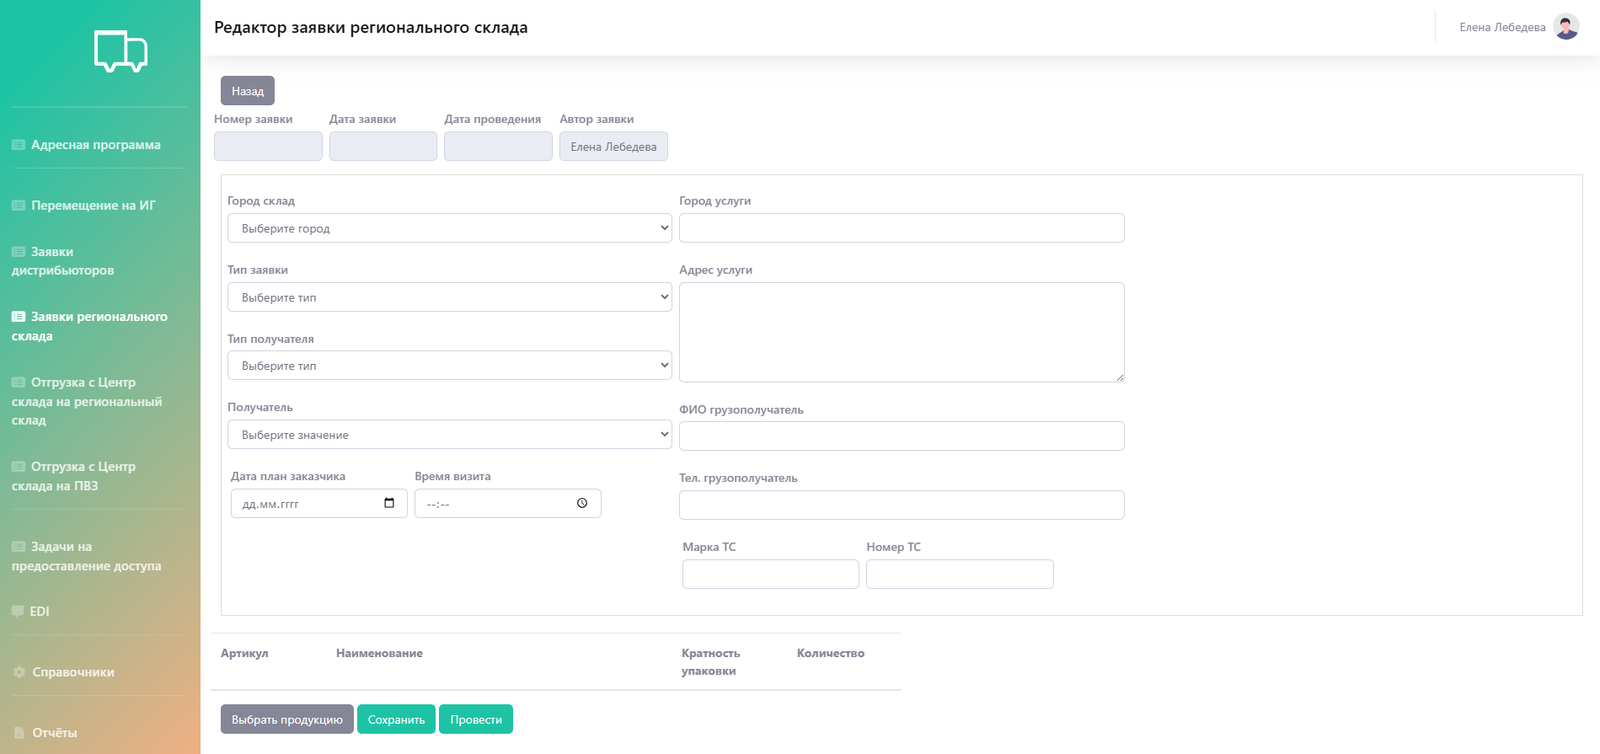
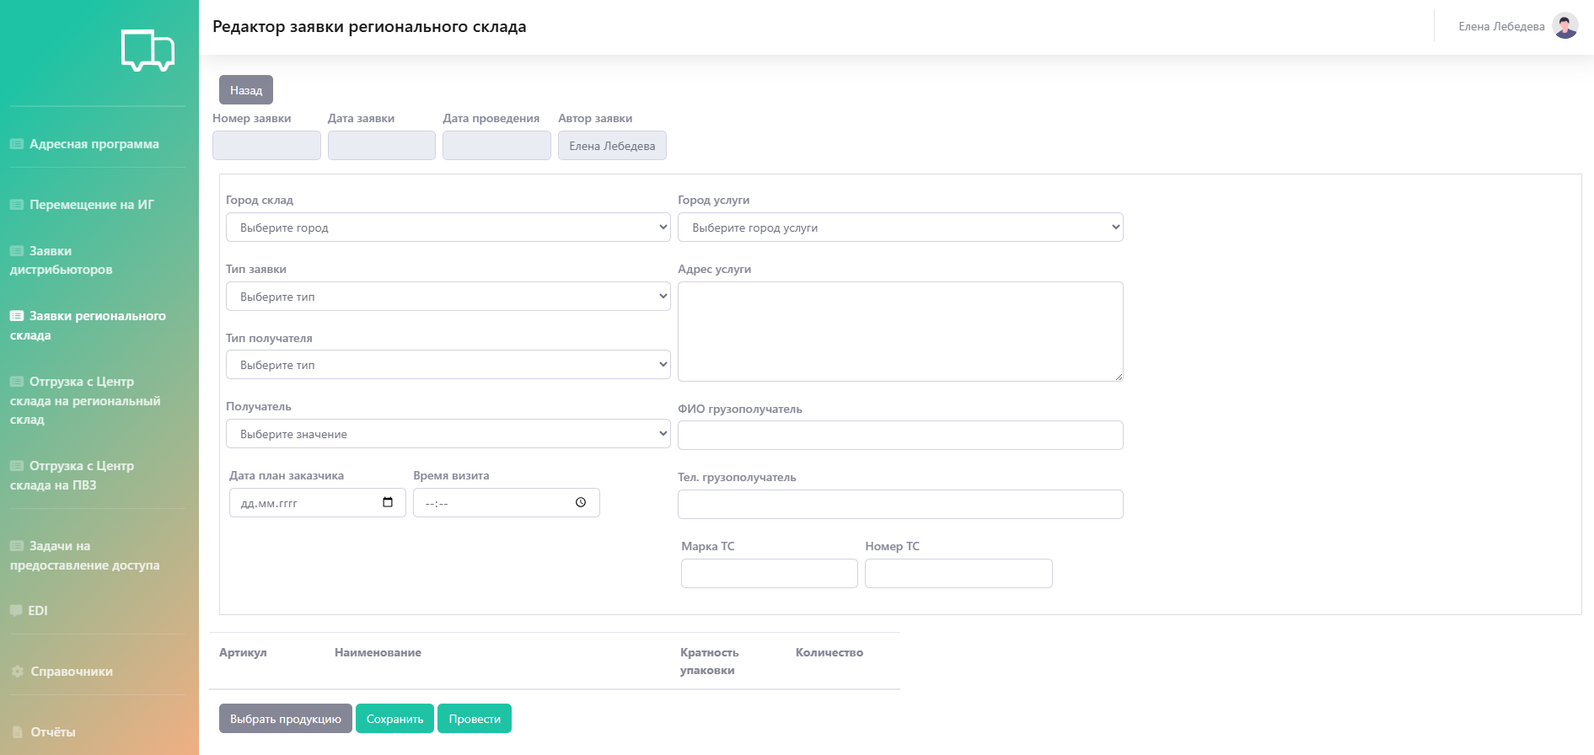
fix bags

diff --git a/docs/ru/main_page.md b/docs/ru/main_page.md
@@ -6,7 +6,7 @@
 
 ## Адресная программа (АП)
 
-**Адресная программа** — заказ, превращённый в детальный маршрутный лист. Здесь указаны данные о том что, куда, зачем, в каком объеме необходимо привезти и что со всем этим делать.     
+**Адресная программа** — заказ, превращённый в детальный маршрутный лист. Здесь указаны данные о том что, куда, зачем, в каком объёме необходимо привезти и что со всем этим делать.     
 
 ### Начало работы
 1. Клиент получает excel-шаблон и заполняет его в соответствии с задачами.
@@ -18,7 +18,7 @@
 
 {% note warning %}
 
-После загрузки адресной программы в систему клиент может только изменить тип заявки движения, канал и наименование проекта, все остальные изменения возможны только по запросу через нас.
+После загрузки адресной программы для редактирования доступны только тип заявки движения, канал и наименование проекта, все остальные изменения возможны путём обращения по электронной почте.
 
 {% endnote %}
 
@@ -32,12 +32,12 @@
 
 ### Расчет тарифа, корректировка и смета
 
-**Расчет тарифа** происходит на нашей стороне: менеджер просчитывает стоимость услуг относительно утвержденных тарифов и вносит их в систему. 
+**Расчет тарифа** происходит на нашей стороне: менеджер рассчитывает стоимость услуг относительно утвержденных тарифов и вносит в систему. 
 Чтобы увидеть расчет необходимо открыть конкретную АП и пролистать до табличной части.            
 
 ![_screen_start_04](_images/md_ap_tarif.png){.center width=1200}
 
-Если расчет устраивает, то по команде «Подтвердить дата план АП» клиент подтверждает согласие со стоимостью по адресной программе и одновременно с этим указывает плановую дату по адресной программе. После этого запускается процесс исполнения.
+Если расчет устраивает, то по команде «Подтвердить дата план АП» клиент соглашается с полученной стоимостью и одновременно с этим указывает плановую дату по адресной программе. После этого запускается процесс исполнения.
 
 В случае, когда требуется **корректировка АП или загрузка сметы**, клиент загружает файл в систему по команде «Загрузка сметы и корректировки» или отправляет email.  
 
@@ -46,7 +46,7 @@
 ![_screen_start_05](_images/md_ap_fix.png){.center width=1200}
 
 ### Фотоотчёт
-Если заявка выполнена, все в той же табличной части адресной программы обновляется статус, фактические даты исполнения и фотоотчёт. 
+Если заявка выполнена, в той же табличной части адресной программы обновляются статус, фактические даты исполнения и фотоотчёт. 
 Для просмотра фото в таблице необходимо кликнуть по столбцу «Фотоотчёт» в строке нужной заявки. На фотографиях указываются дата и место для удобства отслеживания.
 
 ![_screen_start_06](_images/md_ap_photoreport.png){.center width=500}
@@ -59,7 +59,7 @@
 ![_screen_start_07](_images/md_install_group.png){.center width=1200}
 
 ## Управление складской дистрибуцией
-Для отслеживания перемещений и контроля остатков на складах **есть 5 подсистем**.   
+Для отслеживания перемещений и контроля остатков на складах **существует 5 подсистем**.   
 
 ### 1. Заявки дистрибьюторов
 Дистрибьюторы — юридические лица, которым доставляется товар на их склады. Они формируют заявки и передают клиенту, который составляет по ним адресную программу.
@@ -69,17 +69,33 @@
 ![_screen_start_08](_images/md_distrib.png){.center width=1200}
 
 ### 2. Заявки регионального склада
-Клиент может отгрузить товары на региональные склады (через адресную программу) и далее оставлять заявки по мере необходимости того или иного оборудования или товара. 
+Отгрузка товаров на региональные склады происходит через адресную программу. Далее составляются заявки по мере необходимости товара или оборудования. 
 
-Заявка создается из подсистемы «Заявки регионального склада» → «Новая заявка» — таким образом будет открыт редактор заявки регионального склада.
+Заявка создается из подсистемы «Заявки регионального склада» → «Новая заявка» — таким образом открывается редактор заявки регионального склада.
 
 ![_screen_start_09](_images/md_new_request.png){.center width=1200}
 
-Можно забрать товар самовывозом, можно оставить заявку на доставку, на доставку и монтаж, на демонтаж и возврат. 
+Поля «Город склад» и «Город услуги» связаны: выбор города, в котором находится склад, определяет список городов для доставки.   
 
-Тип получателя также может быть различным: дистрибьютор, агентство, Монделиз офис, торговая точка (ТТ).    
+Услуга выбирается в поле «тип заявки»: можно забрать товар самовывозом, можно оставить заявку на доставку, на доставку и монтаж, на демонтаж и возврат. 
 
-Выбор продукции осуществляется на основании актуальных складских остатков. Система позволяет выбрать только номенклатуру, присутствующую на складе в необходимом количестве, исключая возможность заказа отсутствующих или недостающих товаров.
+Поле «тип получателя» может быть: дистрибьютор, агентство, Монделиз офис, торговая точка (ТТ). Выбранный тип ограничивает список значений для поля «получатель». Например, для типа «дистрибьютор» сейчас доступно 13 получателей, а для типа «агентство» — 3. 
+
+Адрес получателя указывается вручную в поле «Адрес услуги» в произвольной форме. После проведения заявки адрес услуги переносится в СУУ, где операторы вручную проверяют указанный адрес для последующего корректного расчёта стоимости доставки. **Для самовывоза адрес услуги не проверяется.** 
+
+Планируемая дата и время визита необходимы только для самовывоза — это позволяет сотрудникам склада подготовить товар вовремя. **Для остальных типов заявки указанная дата и время визита не учитываются.**  
+
+Кроме того, **только для самовывоза** есть возможность отметить срочность заявки. Ориентировочное время доставки 1-2 рабочих дня от даты заявки, при проставленном флажке «срочная заявка» ориентировочное время — 3 часа.    
+
+Дополнительно можно указать данные о грузополучателе: ФИО, телефон, марка и номер транспортного средства (ТС). 
+
+Выбор продукции осуществляется на основании актуальных складских остатков. Система позволяет выбрать только ту номенклатуру, которая есть на складе в нужном количестве, исключая возможность заказа отсутствующих или недостающих товаров.
+
+После внесения всех данных заявку можно сохранить и провести: 
+- при сохранении — информация по заявке вносится в систему, а саму заявку можно просматривать и редактировать, однако работы по заявке начнутся только после ее проведения;
+- после проведения — заявка берётся в работу и её нельзя изменить, но можно добавить информацию о ФИО и телефоне грузополучателя, а также номере и марке транспортного средства. 
+
+**Отменить или удалить заявку можно только, отправив письмо на почту.** 
 
 ### 3. Отгрузка с центрального склада на региональный склад
 В данной подсистеме можно оставить заявку для пополнения запасов в регионах.
@@ -87,26 +103,42 @@
 
 ![_screen_start_10](_images/md_request_center.png){.center width=1200}
 
-При создании заявки необходимо указать номер заказа, в рамках которого будет осуществляться отгрузка с центрального склада, дата создания, автор и статус заявки проставляются автоматически.  
+При создании заявки необходимо указать номер заказа, в рамках которого будет осуществляться отгрузка. Дата создания, автор и статус заявки проставляются автоматически. 
+
+После внесения номера заказа необходимо нажать команду «Сохранить» и повторно открыть только что сохраненную заявку. Появится команда «Загрузить», с помощью которой загружается Excel-файл с информацией по отгрузкам с центрального склада. 
+
+На основании информации из файла происходит расчет стоимости доставки с учетом габаритов и тарифов. Также можно прикрепить корректировку к уже рассчитанной заявке по команде «Загрузить смету и корректировку». 
+
+Когда расчет завершен, менеджер, ответственный за поручение, получает сообщение на почту. По команде «подтвердить калькуляцию» расчет согласовывается, а заявка принимается в работу складом.
+
+Отменить или удалить заявку можно только, отправив письмо на почту.  
 
 ### 4. Отгрузка с центрального склада на ПВЗ
-ПВЗ — это «мини-версия» склада. По функциям и взаимодействию аналогичен складу однако, есть 2 ключевых отличия:
-- можно заказывать оборудование небольшого объема (до 0,8 м³);
-- заказчик этого оборудования должен забрать его в течение недели. 
+ПВЗ — это «мини-версия» склада. По функциям и взаимодействию аналогичен складу, однако, есть 2 ключевых отличия:
+- можно заказывать оборудование небольшого объема (объем одного заказа вне зависимости от количества оборудования не должен превышать 0,8 м³);
+- заказчик оборудования должен забрать его в течение 7 календарных дней с момента поступления на ПВЗ. 
 
-Заявка оставляется по команде «Новая заявка» и добавление продукции происходит в соответствии со складскими остатками. Кроме того, для товаров доступен просмотр товаров в 3D:  
+Добавление заявки происходит по команде «Новая заявка»:
+- город выбирается только из тех, где есть ПВЗ, адрес ПВЗ проставляется автоматически в соответствии с выбранным городом;
+- плановая дата, к которой необходимо доставить оборудование, а также ФИО и телефон грузополучателя можно добавить позже, если на момент создания заявки информации еще нет;
+- товар добавляется в соответствии со складскими остатками через команды «Выбрать товар» или «Выбрать продукцию» (разницы между командами нет). Кроме того, для каждой номенклатуры доступен просмотр товаров в 3D.  
 
-![_screen_start_11](_images/md_3d_request.png){.center width=1200}
+![_screen_start_20](_images/md_request_PVZ.png){.center width=1200}
+
+После внесения всех данных заявку можно сохранить и провести: 
+- при сохранении — информация по заявке вносится в систему, а саму заявку можно просматривать и редактировать, однако работы по заявке начнутся только после ее проведения;
+- при проведении — заявка берется в работу и ее нельзя изменить, но можно добавить информацию о ФИО и телефоне грузополучателя.  
+
+Отменить или удалить заявку можно только, отправив письмо на почту. 
 
 ## 5. EDI
-**EDI** — система электронного документооборота. 
-Данная подсистема интегрирована с виртуальными складами для обмена информацией с системой клиента (SAP Mondelēz).   
-
-Каждое действие с товаром (поступление, отгрузка в транзит, прибытие, установка и etc.) фиксируется под уникальными номерами движений (101, 301, 305, 84, 85 и др.), что делает точнее электронный документооборот: видна вся цепочка по номеру заказа.  
+**EDI** — система электронного документооборота, которая является каналом синхронизации систем SAP Mondelez и СУУ. При проведении того или иного складского документа в EDI фиксируется соответствующее сообщение о движении: каждое действие с товаром (поступление, отгрузка в транзит, прибытие, установка etc.) фиксируется под уникальными номерами движений (101, 301, 305, 84, 85 и др.), что делает точнее электронный документооборот: видна вся цепочка по номеру заказа.  
 
 ![_screen_start_12](_images/md_edi.png){.center width=1200}
 
-Кроме того, настроен автоматический обмен: каждый вечер система отправляет актуальные остатки по складам.
+Кроме того, настроен автоматический обмен: каждый вечер система отправляет актуальные остатки по складам, таким образом оператор работает с синхронизированными остатками SAP Mondelez. 
+
+Синхронизация с SAP Mondelez происходит только по общему остатку региональных складов, а в личном кабинете этот остаток детализируется по складам. Именно из этого детализированного распределения операторы выбирают номенклатуру для заявок. 
 
 ## Отчёты
 
@@ -128,19 +160,19 @@
 
 - Загрузка склада и Остатки
 
-  **Отчёты «Загрузка склада» и «Остатки»** позволяют анализировать эффективность использования складских мощностей и управлять затратами. Фиксируются ежедневные входящие/исходящие остатки, что является основой для точного расчёта стоимости хранения и дополнительных услуг.
+  **Отчёты «Загрузка склада» и «Остатки»** позволяют анализировать эффективность использования складских мощностей и управлять затратами. В отчётах фиксируются ежедневные входящие и исходящие остатки. Эти данные служат основой для точного расчёта стоимости хранения и дополнительных услуг.
 
   ![_screen_start_15](_images/md_leftovers.png){.center width=1200}
 
 - Задачи
 
-  **Отчёт «Задачи»** помогает в реальном времени видеть статус и детали по каждой конкретной точке назначения, отслеживать выполнение задач через фотоотчёты и выявлять проблемы.
+  **Отчёт «Задачи»** помогает видеть в реальном времени статус и детали по каждой конкретной точке назначения, отслеживать выполнение задач через фотоотчёты и выявлять проблемы.
 
   ![_screen_start_16](_images/md_tasks.png){.center width=1200}
 
 - Акты дистрибьютора
 
-  **Отчёт «Акты дистрибьютора»** автоматически формируется акт о расходе рекламных материалов для выбранного контрагента за указанный период в формате excel-файла  
+  **Отчёт «Акты дистрибьютора»** автоматически формирует акт о расходе рекламных материалов для выбранного контрагента за указанный период и выгружает его в формате Excel.  
   
   ![_screen_start_17](_images/md_act_dist.png){.center width=1200}
 
@@ -153,7 +185,7 @@
 {% endlist %}
 
 ## Справочники
-Для обеспечения работы в системе ведется единая база: 
+Для обеспечения работы в системе ведётся единая база: 
 - бренды: добавляются клиентом вручную;
 - компании: добавляются клиентом вручную
 - лимит сметы: настраивается с нашей стороны по запросу клиента для контроля полномочий по утверждению АП (ниже лимита — подтверждают менеджеры, выше — руководители); 
